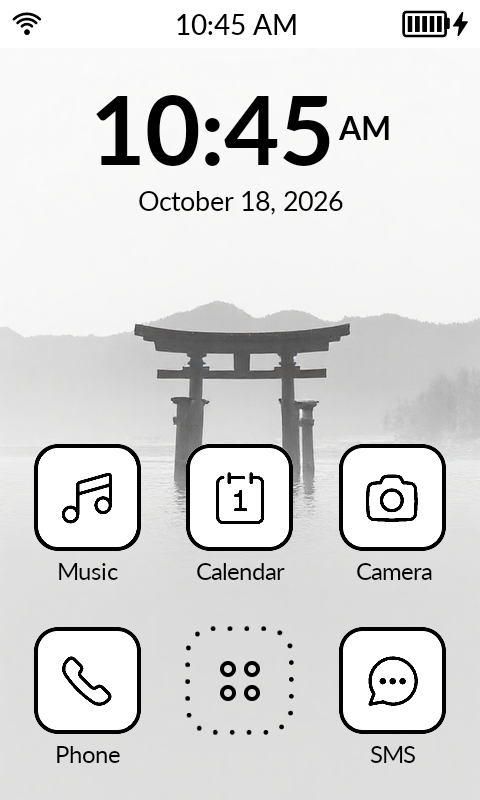
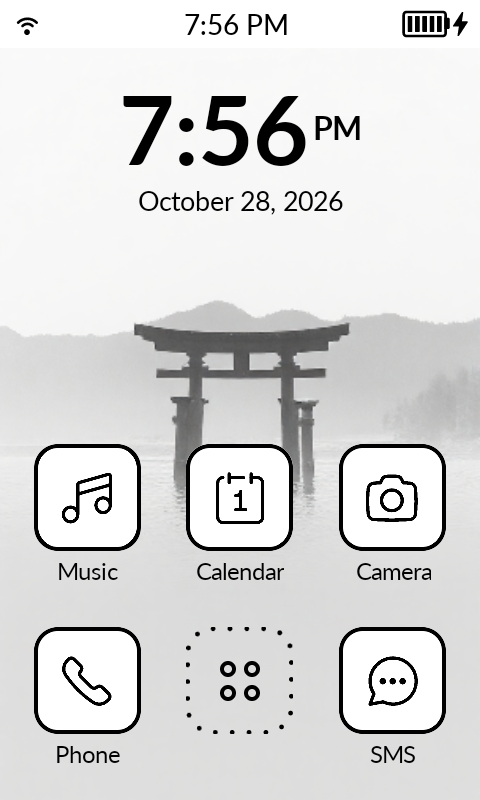
Release v0.5.1

diff --git a/docs/index.html b/docs/index.html
@@ -33,7 +33,7 @@
         "url": "https://alexindigo.github.io/kotatsu/",
         "applicationCategory": "UtilitiesApplication",
         "operatingSystem": "Android 11 or newer",
-        "softwareVersion": "0.5",
+        "softwareVersion": "0.5.1",
         "image": "https://alexindigo.github.io/kotatsu/img/screenshots/kotatsu_home.png",
         "downloadUrl": "https://github.com/alexindigo/kotatsu/releases/latest",
         "license": "https://github.com/alexindigo/kotatsu/blob/main/LICENSE",
@@ -98,7 +98,7 @@
             </article>
             <article>
                 <h3>Make it feel like home</h3>
-                <p>Rounded or circle app icons, round page controls, an optional extra dock row and music controls. Choose clock and date formats, light or dark appearance, and a wallpaper with automatic black-or-white ink. Home-button refresh helps clear e-ink ghosting.</p>
+                <p>Rounded or circle app icons, round page controls, an optional extra dock row and music controls. Choose clock and date formats and light or dark appearance. Home stays readable over any wallpaper, with automatic black-or-white ink that follows the picture underneath. Pick the built-in Kotatsu wallpaper or your own photo in Settings › Appearance › Wallpaper or from the Home long-press menu, or leave it at None. Home-button refresh helps clear e-ink ghosting.</p>
             </article>
         </div>
     </section>
@@ -134,8 +134,8 @@
                 <figcaption>Hiding an app and allowing lock-screen notifications are separate choices.</figcaption>
             </figure>
             <figure>
-                <a class="screen" href="img/screenshots/kotatsu_home_wallpaper.png"><img loading="lazy" src="img/screenshots/kotatsu_home_wallpaper.png" width="480" height="800" alt="Home screen with a wallpaper"></a>
-                <figcaption>A wallpaper, if you want one.</figcaption>
+                <a class="screen" href="img/screenshots/kotatsu_home_wallpaper.png"><img loading="lazy" src="img/screenshots/kotatsu_home_wallpaper.png" width="480" height="800" alt="Home screen with the built-in Kotatsu wallpaper"></a>
+                <figcaption>The built-in Kotatsu wallpaper, if you want it.</figcaption>
             </figure>
             <figure>
                 <a class="screen" href="img/screenshots/kotatsu_lockscreen_widgets.png"><img loading="lazy" src="img/screenshots/kotatsu_lockscreen_widgets.png" width="480" height="800" alt="Lock-screen widget settings showing Kotatsu Weather and Add widget"></a>
@@ -156,21 +156,21 @@
             <p>Install updates manually from <a href="https://github.com/alexindigo/kotatsu/releases/latest">the latest release</a>.</p>
         </div>
         <div class="download-panel">
-            <h3>Version 0.5</h3>
+            <h3>Version 0.5.1</h3>
             <p>The launcher and Weather are installed separately. Weather is optional.</p>
             <div class="download-row">
-                <a class="button primary" href="https://github.com/alexindigo/kotatsu/releases/download/v0.5/kotatsu-v0.5.apk">Download launcher</a>
-                <span>kotatsu-v0.5.apk</span>
+                <a class="button primary" href="https://github.com/alexindigo/kotatsu/releases/download/v0.5.1/kotatsu-v0.5.1.apk">Download launcher</a>
+                <span>kotatsu-v0.5.1.apk</span>
             </div>
             <div class="download-row">
-                <a class="button" href="https://github.com/alexindigo/kotatsu/releases/download/v0.5/kotatsu-weather-v0.5.apk">Download Weather</a>
-                <span>kotatsu-weather-v0.5.apk</span>
+                <a class="button" href="https://github.com/alexindigo/kotatsu/releases/download/v0.5.1/kotatsu-weather-v0.5.1.apk">Download Weather</a>
+                <span>kotatsu-weather-v0.5.1.apk</span>
             </div>
-            <p><a href="https://github.com/alexindigo/kotatsu/releases/tag/v0.5">Release notes and assets</a></p>
+            <p><a href="https://github.com/alexindigo/kotatsu/releases/tag/v0.5.1">Release notes and assets</a></p>
             <details>
                 <summary>Signing certificate SHA-256</summary>
                 <p class="fingerprint">8fa0f259c8cf159d9fa4d995ab1b55fae7eb3c463a249b985b20107edfbbf607</p>
-                <p>This identifies the APK signing certificate, not the APK file checksum. Inspect a download with Android SDK Build Tools: <code>apksigner verify --print-certs kotatsu-v0.5.apk</code>.</p>
+                <p>This identifies the APK signing certificate, not the APK file checksum. Inspect a download with Android SDK Build Tools: <code>apksigner verify --print-certs kotatsu-v0.5.1.apk</code>.</p>
             </details>
         </div>
     </section>

diff --git a/tools/verify_fork.py b/tools/verify_fork.py
@@ -228,7 +228,7 @@ def execution_identity(root,base,args):
 def source_identity(root,base,index_path,execution=None):
     provenance=execution_identity(root,base,execution)
     build=(root/'app/build.gradle.kts').read_text();original=baseline_bytes(root,base,'app/build.gradle.kts').decode()
-    require(build==original.replace('archivesName.set("katapult-v1.6")','archivesName.set("kotatsu-v0.5")').replace('applicationId = "com.gezimos.katapult"','applicationId = "'+RELEASE_ID+'"').replace('versionCode = 7','versionCode = 12').replace('versionName = "1.6"','versionName = "0.5"'),'Build versions/dependencies/signing/optimization or namespace changed beyond identity')
+    require(build==original.replace('archivesName.set("katapult-v1.6")','archivesName.set("kotatsu-v0.5.1")').replace('applicationId = "com.gezimos.katapult"','applicationId = "'+RELEASE_ID+'"').replace('versionCode = 7','versionCode = 13').replace('versionName = "1.6"','versionName = "0.5.1"'),'Build versions/dependencies/signing/optimization or namespace changed beyond identity')
     settings=(root/'settings.gradle.kts').read_bytes()
     require(settings==baseline_bytes(root,base,'settings.gradle.kts').replace(b'rootProject.name = "Katapult"',b'rootProject.name = "Kotatsu"'),'Root settings changed beyond identity')
     baseline_manifest=ET.fromstring(baseline_bytes(root,base,'app/src/main/AndroidManifest.xml'));manifest=ET.parse(root/'app/src/main/AndroidManifest.xml').getroot()
@@ -647,7 +647,7 @@ def apk_identity(args):
     analyzer_xml=command(args.apkanalyzer,'manifest','print',apk);manifest=ET.fromstring(analyzer_xml)
     require(manifest.tag=='manifest' and manifest.get('package')==expected,'Actual compiled package mismatch')
     badging=parse_badging(command(args.aapt2,'dump','badging',apk))
-    require(badging['package']==expected and badging['versionCode']=='12' and badging['versionName']==('0.5-debug' if args.variant=='debug' else '0.5'),'Compiled APK version/ID mismatch')
+    require(badging['package']==expected and badging['versionCode']=='13' and badging['versionName']==('0.5.1-debug' if args.variant=='debug' else '0.5.1'),'Compiled APK version/ID mismatch')
     label='Kotatsu Debug' if args.variant=='debug' else 'Kotatsu'
     require(all(v==label for v in badging['labels'].values()),'Wrong compiled locale label')
     require(set(x.removeprefix('-') for x in LOCALES if x)<=set(badging['labels']),'Missing compiled existing locale labels')

diff --git a/tools/tests/test_apk_identity_flow.py b/tools/tests/test_apk_identity_flow.py
@@ -57,7 +57,7 @@ class ApkIdentityFlowTest(unittest.TestCase):
             file=f'res/v{i}.xml';self.xml[file]=data.decode();self.payloads[file]=b'compiled vector'
             self.resources+=f'  resource 0x7f00000{i} {name}\n    () (file) {file} type=XML\n'
         self.write_zip()
-        self.version = '0.5-debug'
+        self.version = '0.5.1-debug'
         self.labels = {locale.lstrip('-') or 'default': 'Kotatsu Debug' for locale in verify.LOCALES}
         self.debuggable = True
         self.min_sdk = '30'
@@ -111,7 +111,7 @@ class ApkIdentityFlowTest(unittest.TestCase):
             return ET.tostring(self.manifest, encoding='unicode')
         if args[1:3] == ('dump', 'badging'):
             labels = '\n'.join(f"application-label{'' if locale == 'default' else '-' + locale}:'{value}'" for locale, value in self.labels.items())
-            return f"package: name='{self.package}' versionCode='12' versionName='{self.version}'\n{labels}\n" + ('application-debuggable\n' if self.debuggable else '')
+            return f"package: name='{self.package}' versionCode='13' versionName='{self.version}'\n{labels}\n" + ('application-debuggable\n' if self.debuggable else '')
         if args[1:3] == ('manifest', 'min-sdk'):
             return self.min_sdk
         if args[1:3] == ('manifest', 'target-sdk'):
@@ -175,7 +175,7 @@ class ApkIdentityFlowTest(unittest.TestCase):
         for wrong_version in ('1.6-debug', '2.0'):
             self.version = wrong_version
             self.rejected('Compiled APK version/ID mismatch')
-        self.version = '0.5-debug'
+        self.version = '0.5.1-debug'
         self.min_sdk = '32'
         self.rejected('Compiled SDK mismatch')
 
@@ -193,7 +193,7 @@ class ApkIdentityFlowTest(unittest.TestCase):
         self.manifest.set('package', self.package)
         self.xml['res/c.xml'] = self.xml['res/c.xml'].replace(verify.RELEASE_ID + '.debug', self.package)
         self.labels = {locale: 'Kotatsu' for locale in self.labels}
-        self.version = '0.5'
+        self.version = '0.5.1'
         self.debuggable = False
         release_dir = self.directory.parent / 'release'
         self.directory.rename(release_dir)

diff --git a/tools/tests/test_verify_fork.py b/tools/tests/test_verify_fork.py
@@ -38,7 +38,7 @@ class ArtifactSelectionTest(unittest.TestCase):
     def setUp(self):
         self.temp=tempfile.TemporaryDirectory();self.root=Path(self.temp.name)
         self.directory=self.root/'app/build/outputs/apk/debug';self.directory.mkdir(parents=True)
-        self.apk=self.directory/'kotatsu-v0.5-debug.apk';self.apk.write_bytes(b'fixture apk')
+        self.apk=self.directory/'kotatsu-v0.5.1-debug.apk';self.apk.write_bytes(b'fixture apk')
         self.metadata={'variantName':'debug','applicationId':verify.RELEASE_ID+'.debug','elements':[{'outputFile':self.apk.name}]}
         self.write()
     def tearDown(self):self.temp.cleanup()
@@ -69,7 +69,7 @@ class ArtifactSelectionTest(unittest.TestCase):
 
 class ToolParsingTest(unittest.TestCase):
     def test_actual_badging_shape_with_locale_labels(self):
-        text="package: name='com.alexindigo.kotatsu.debug' versionCode='12' versionName='0.5-debug'\napplication-label:'Kotatsu Debug'\napplication-label-de:'Kotatsu Debug'\napplication-debuggable\n"
+        text="package: name='com.alexindigo.kotatsu.debug' versionCode='13' versionName='0.5.1-debug'\napplication-label:'Kotatsu Debug'\napplication-label-de:'Kotatsu Debug'\napplication-debuggable\n"
         result=verify.parse_badging(text);self.assertTrue(result['debuggable']);self.assertEqual(result['labels']['de'],'Kotatsu Debug')
     def test_malformed_badging_fails_closed(self):
         for text in ('','package: malformed','application-label:\'Kotatsu\''):
@@ -282,7 +282,7 @@ class CompactGeometryTest(unittest.TestCase):
                     target=p.parent/path
                 self.assertTrue(target.is_file(),path)
             self.assertNotIn('Temporary inherited upstream wordmark',text)
-        self.assertIn('"softwareVersion": "0.5"',(root/'docs/index.html').read_text())
+        self.assertIn('"softwareVersion": "0.5.1"',(root/'docs/index.html').read_text())
 
     def test_path_parser_normalizes_actual_relative_and_implicit_commands(self):
         self.assertEqual(verify.path_geometry('M1 2h3v4l-3 0z'),verify.path_geometry('m1,2 3,0 0,4 -3,0 Z'))

diff --git a/README.md b/README.md
@@ -10,7 +10,7 @@ Kotatsu is a privacy-focused Android launcher for the Mudita Kompakt e-ink phone
 
 **The launcher has no Internet permission or built-in updater.** Kotatsu Weather is a separate, optional app that uses the network.
 
-[Download the latest release](https://github.com/alexindigo/kotatsu/releases/latest) · [Website](https://alexindigo.github.io/kotatsu/) · [What's new in 0.5](CHANGELOG.md)
+[Download the latest release](https://github.com/alexindigo/kotatsu/releases/latest) · [Website](https://alexindigo.github.io/kotatsu/) · [What's new in 0.5.1](CHANGELOG.md)
 
 Kotatsu on a Mudita Kompakt:
 
@@ -24,7 +24,7 @@ Kotatsu on a Mudita Kompakt:
         </tr>
         <tr>
             <td><img src='docs/img/screenshots/kotatsu_hidden_apps.png' height='300' alt="Hidden apps page with Hide and Notify controls"></td>
-            <td><img src='docs/img/screenshots/kotatsu_home_wallpaper.png' height='300' alt="Home screen with a wallpaper"></td>
+            <td><img src='docs/img/screenshots/kotatsu_home_wallpaper.png' height='300' alt="Home screen with the built-in Kotatsu wallpaper"></td>
             <td><img src='docs/img/screenshots/kotatsu_lockscreen_widgets.png' height='300' alt="Lock-screen widgets settings"></td>
             <td><img src='docs/img/screenshots/kotatsu_home_dark.png' height='300' alt="Dark home screen with battery percentage and no wallpaper"></td>
         </tr>
@@ -35,7 +35,7 @@ Kotatsu on a Mudita Kompakt:
 
 - **A simple home and app grid.** Large clock and date, Phone/SMS dock, an optional row of three shortcuts, music information and controls, battery percentage, and swipe or page-arrow navigation. Arrows stop at the ends even when swipe wrapping is on.
 - **2,174 offline icon choices.** Search Simple Icons, Tabler and Material collections, import PNG/SVG artwork, or reset an icon. Reviewed brand matches and hand-picked stock line icons apply automatically; other apps keep their original icons. Manual choices take priority. See the [icon catalogue](docs/ICON_CATALOGUE.md).
-- **A consistent e-ink look.** Rounded-square or circle app icons, round buttons and page arrows, light/dark/system themes, an optional wallpaper with automatic black-or-white ink, and home-button refresh to clear ghosting.
+- **A consistent e-ink look.** Rounded-square or circle app icons, round buttons and page arrows, light/dark/system themes, and home-button refresh to clear ghosting. Home stays readable over any wallpaper, with automatic black-or-white ink that follows the picture underneath. Pick the built-in Kotatsu wallpaper or your own photo in Settings › Appearance › Wallpaper or from the Home long-press menu, or leave it at None.
 - **Setup at your pace.** Finish onboarding without sensitive grants or changing the default launcher. Sensitive access has separate choices for collecting badges, media information and usage statistics, and for notification dismissal, call acknowledgment, media controls and accessibility features.
 - **Quiet app lists.** Hide, rename and reorder apps. Settings → All Apps separates Hidden Apps from Kompakt System Apps. Stock apps omitted by Mudita's launcher, app stores, FUTO Keyboard and Mudita's Update start hidden and can be shown individually. Hidden apps stay off the lock screen unless their separate Notify box is ticked; lock-screen exclusions still take precedence.
 - **A useful lock screen.** On Kompakt, host installed Android app widgets in a configurable box over the padlock and unlock hint. Choose widget size and order. Optional experimental lock-screen notifications show per-app counts. These features need the Kotatsu Action Service.
@@ -46,12 +46,12 @@ Kotatsu on a Mudita Kompakt:
 
 Requires **Android 11 or newer** (API 30). Kompakt-specific integration, including lock-screen widget hosting, is designed for the Mudita Kompakt.
 
-Get the APKs from [Kotatsu Releases](https://github.com/alexindigo/kotatsu/releases/latest). The [v0.5 release](https://github.com/alexindigo/kotatsu/releases/tag/v0.5) includes:
+Get the APKs from [Kotatsu Releases](https://github.com/alexindigo/kotatsu/releases/latest). The [v0.5.1 release](https://github.com/alexindigo/kotatsu/releases/tag/v0.5.1) includes:
 
 | # | APK | Install for |
 |---|---|---|
-| 1 | [kotatsu-v0.5.apk](https://github.com/alexindigo/kotatsu/releases/download/v0.5/kotatsu-v0.5.apk) | The launcher |
-| 2 | [kotatsu-weather-v0.5.apk](https://github.com/alexindigo/kotatsu/releases/download/v0.5/kotatsu-weather-v0.5.apk) | Optional weather widget; separate app with network access |
+| 1 | [kotatsu-v0.5.1.apk](https://github.com/alexindigo/kotatsu/releases/download/v0.5.1/kotatsu-v0.5.1.apk) | The launcher |
+| 2 | [kotatsu-weather-v0.5.1.apk](https://github.com/alexindigo/kotatsu/releases/download/v0.5.1/kotatsu-weather-v0.5.1.apk) | Optional weather widget; separate app with network access |
 
 Open the downloaded APK on the phone and allow installation from that source when Android asks. Open Kotatsu to preview it; choose it as the default Home app in Android settings when ready. Updates are installed manually from Releases.
 
@@ -61,7 +61,7 @@ The release APK signing certificate's **SHA-256** is:
[1 lines of base64/hex data omitted]
 ```
 
-This is the certificate fingerprint, not an APK file checksum. With Android SDK Build Tools installed, inspect an APK using `apksigner verify --print-certs kotatsu-v0.5.apk`.
+This is the certificate fingerprint, not an APK file checksum. With Android SDK Build Tools installed, inspect an APK using `apksigner verify --print-certs kotatsu-v0.5.1.apk`.
 
 ## Kotatsu Weather
 

diff --git a/CHANGELOG.md b/CHANGELOG.md
@@ -2,6 +2,19 @@
 
 Kotatsu changelog. The sections after 0.1 are inherited Katapult history through v1.6.
 
+## [0.5.1] — 2026-10-28
+
+### Added
+- **Built-in Kotatsu wallpaper**: choose Kotatsu or your own photo in Settings › Appearance › Wallpaper or from the Home long-press menu. None is the default.
+
+### Changed
+- **Notification badges** show the number of unread messages reported by apps such as Delta Chat, instead of counting one per chat.
+- **Kotatsu Weather** has its version aligned with the launcher; no other changes.
+
+### Fixed
+- **Home-slot picker** leaves out hidden apps. Apps already assigned to Home stay in place.
+- **Action Service recovery message** says access is off and explains how to turn it back on, without blaming an app update.
+
 ## [0.5] — 2026-10-27
 
 ### Changed

diff --git a/docs/ICON_CATALOGUE.md b/docs/ICON_CATALOGUE.md
@@ -93,7 +93,7 @@ access workflow. The current guest checkout is
 `/srv/kotatsu/source/kotatsu-release-20261013`. Inside that guest:
 
 ```bash
-python -B tools/verify_icon_catalogue.py --root "$PWD" --apk app/build/outputs/apk/release/kotatsu-v0.5-release.apk
+python -B tools/verify_icon_catalogue.py --root "$PWD" --apk app/build/outputs/apk/release/kotatsu-v0.5.1-release.apk
 ```
 
 The verifier checks every named entry and actual packaged asset byte, included
